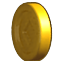
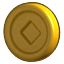
Fix gold coin animation

diff --git a/Source/Samples/30_LightAnimation/LightAnimation.cpp b/Source/Samples/30_LightAnimation/LightAnimation.cpp
@@ -125,13 +125,14 @@ void LightAnimation::CreateScene()
     GetSubsystem<UI>()->GetRoot()->GetChild(String("animatingText"))->SetAttributeAnimation("Text", textAnimation);
 
     // Create UI element animation
-    // (note: a spritesheet should be used in real use cases for better performance)
+    // (note: a spritesheet and "Image Rect" attribute should be used in real use cases for better performance)
     SharedPtr<ValueAnimation> spriteAnimation(new ValueAnimation(context_));
     spriteAnimation->SetKeyFrame(0.0f, ResourceRef("Texture2D", "Urho2D/GoldIcon/1.png"));
     spriteAnimation->SetKeyFrame(0.1f, ResourceRef("Texture2D", "Urho2D/GoldIcon/2.png"));
-    spriteAnimation->SetKeyFrame(0.2f, ResourceRef("Texture2D", "Urho2D/GoldIcon/4.png"));
-    spriteAnimation->SetKeyFrame(0.3f, ResourceRef("Texture2D", "Urho2D/GoldIcon/5.png"));
-    spriteAnimation->SetKeyFrame(0.4f, ResourceRef("Texture2D", "Urho2D/GoldIcon/1.png"));
+    spriteAnimation->SetKeyFrame(0.2f, ResourceRef("Texture2D", "Urho2D/GoldIcon/3.png"));
+    spriteAnimation->SetKeyFrame(0.3f, ResourceRef("Texture2D", "Urho2D/GoldIcon/4.png"));
+    spriteAnimation->SetKeyFrame(0.4f, ResourceRef("Texture2D", "Urho2D/GoldIcon/5.png"));
+    spriteAnimation->SetKeyFrame(0.5f, ResourceRef("Texture2D", "Urho2D/GoldIcon/1.png"));
     GetSubsystem<UI>()->GetRoot()->GetChild(String("animatingSprite"))->SetAttributeAnimation("Texture", spriteAnimation);
 
     // Create light color animation
